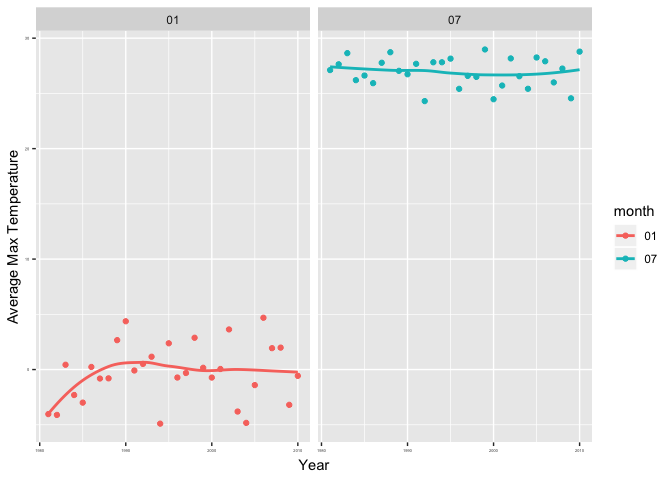
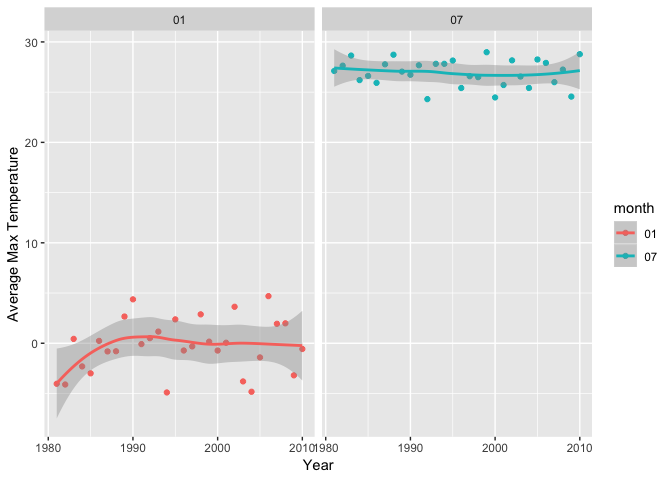
almost finished I suppose

diff --git a/hm3_xw2598.md b/hm3_xw2598.md
@@ -393,20 +393,21 @@ Comments:
    ) %>% 
    ggplot(aes(x = as.numeric(year),y = averange,color = month))+
      geom_point()+
-  geom_smooth(se = FALSE)+
+  geom_smooth(se = TRUE)+
    labs(
       x = "Year",
       y = "Average Max Temperature",
       color = "month"
   )+
-  theme(axis.text = element_text(size = 3))+
      facet_grid(. ~ month)
 ```
 
     ## `geom_smooth()` using method = 'loess' and formula 'y ~ x'
 
-![](hm3_xw2598_files/figure-markdown_github/p3_q2-1.png)
+![](hm3_xw2598_files/figure-markdown_github/p3_q2-1.png) Comments:
 
-Make a two-panel plot showing the average max temperature in January and in July in each station across years. Is there any observable / interpretable structure? Any outliers?
+From the plot we can see clearly that the averange max temperature in January was lower than in July, as the normal climate low in Northern Hemisphere. Across years, in July the averange Tmax had a smaller scale than that in January which means Tmax waved more extremely in winter than in summer during these years.
+
+outliers:I considered those points which were out of the se scale and in the opposite tendency of the prior points as possible outliers. They include: The averange Tmaxin January in 1994,2003.
 
 Make a two-panel plot showing (i) tmax vs tmin for the full dataset (note that a scatterplot may not be the best option); and (ii) make a plot showing the distribution of snowfall values greater than 0 and less than 100 separately by year.
